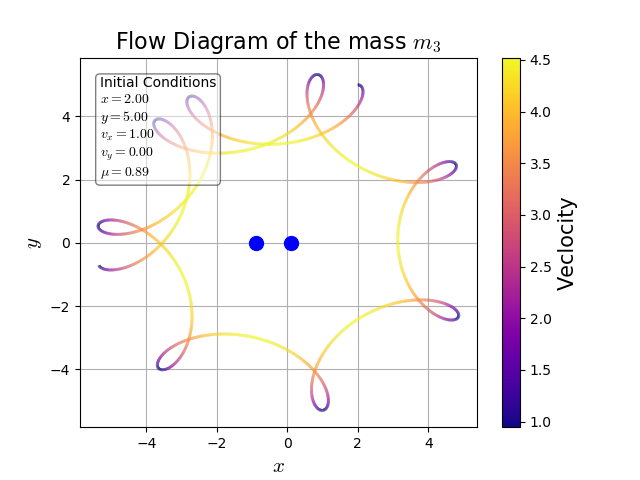
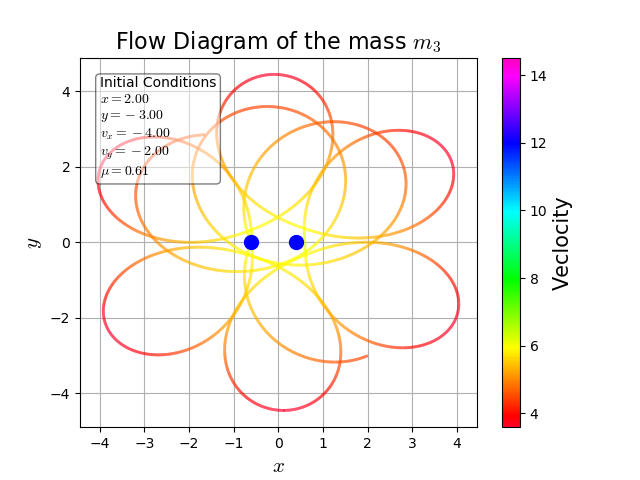
Added some fancy new graphs

diff --git a/Code/Lagrange_GUI.py b/Code/Lagrange_GUI.py
@@ -13,7 +13,7 @@ from tkinter.filedialog import *
 import tkinter.messagebox
 
 cmaps = ['plasma', 'rainbow', 'gist_rainbow']
-cmapType = cmaps[0]
+cmapType = cmaps[2]
 
 class GUI:
     def __init__(self, root):
